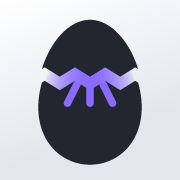
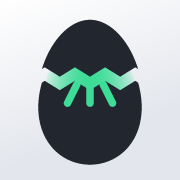
Drop violet from every surface, and give the mark a green crack
What was left after the primary button already went neutral: the mark's
crack light and halo, the "evolve" verdict, the AI bubble's star, and the
Appearance and Usage seals in Settings. The seals survived an earlier
sweep for a dumb reason worth recording — the sweep grepped lowercase hex
and that file writes uppercase.

The crack is now green, and green is not decoration here: it is the
colour of "invest", which is the app's one real yes. Measured on the
shell it sits on, it also beats what it replaces — 5.41:1 against the
light shell where the violet gave 4.72, and 8.57:1 against the dark shell
where it gave 4.06. The verdict blue measures 7.48:1 on the darkest dark
surface and 5.32:1 on the lightest light one, against the violet's 6.24
and 5.51.

Dragon and Psychic keep their violet: that is the canonical colour of the
species' type, which is content, not chrome.

The AI star loses its two-stop gradient with it. A gradient on a 26px
glyph is the kind of decoration that reads as generated rather than
designed, and the note above it admitted the star was "the only violet
thing that survives over the glass".

Icons regenerated from the same palette, both themes.

Changed region(s): [[0.25, 0.3611, 0.75, 0.6111]]

diff --git a/apps/web/scripts/make-icons.ts b/apps/web/scripts/make-icons.ts
@@ -100,7 +100,7 @@ const PALETAS: Record<Tema, Paleta> = {
     tile0: [0x33, 0x39, 0x4a], // #33394A
     tile1: [0x14, 0x17, 0x1e], // #14171E
     casca: [0xf4, 0xf6, 0xfa], // #F4F6FA, do handoff
-    luz: [0x6e, 0x4b, 0xff], // #6E4BFF
+    luz: [0x0f, 0x73, 0x50], // #0F7350 — measured 5.41:1 on the light shell (the violet gave 4.72)
     quina: [0xff, 0xff, 0xff],
     quinaAlfa: 0.22, // rgba(255,255,255,.22), do handoff
     quinaLado: -1,
@@ -109,7 +109,7 @@ const PALETAS: Record<Tema, Paleta> = {
     tile0: [0xff, 0xff, 0xff], // #FFFFFF
     tile1: [0xe3, 0xe6, 0xec], // #E3E6EC
     casca: [0x22, 0x26, 0x2f], // #22262F, a versao de fundo claro
-    luz: [0x8a, 0x6b, 0xff], // #8A6BFF
+    luz: [0x3d, 0xdc, 0x97], // #3DDC97 — measured 8.57:1 on the dark shell (the violet gave 4.06)
     quina: [0x8f, 0x96, 0xa6],
     quinaAlfa: 0.45,
     quinaLado: 1,
@@ -210,7 +210,7 @@ function roundedRectSdf(
 
 /**
  * A marca: um OVO CHOCANDO — a metade de cima levantada, borda de quebra em
- * zigue-zague e luz violeta escapando de dentro.
+ * zigue-zague e a luz da marca escapando de dentro.
  *
  * Opcao 8a do documento de exploracao, e a razao dela existir esta escrita la:
  * "A Poké Ball está fora — a forma (esfera com faixa equatorial e botão
@@ -546,3 +546,47 @@ for (const [size, forma, marca, name] of [
     console.log(`${arquivo.padEnd(30)} ${size}x${size}  ${(png.length / 1024).toFixed(1)} KB`);
   }
 }
+
+/*
+ * THE NATIVE APP GETS THE SAME MARK.
+ *
+ * `apps/mobile/assets/icon.png` was still the Expo template icon — the blue
+ * chevron with the construction guides drawn on it. It is what the home screen
+ * of the simulator showed, so the native app looked like a scaffold next to the
+ * installed PWA, which has carried the egg since the icon round.
+ *
+ * Same generator, same palette, on purpose: the home-screen icon and the mark
+ * inside the app have to be one drawing. `cheio` at scale 1 is the iOS rule
+ * from the table above — the squircle eats the corners and never the middle.
+ *
+ * It is written twice: the Expo asset (so `prebuild` keeps it) and the asset
+ * catalog the current `ios/` project actually reads. Writing only the first
+ * would change nothing until someone ran prebuild, and prebuild wipes Pods.
+ */
+const MOBILE = join(HERE, "..", "..", "mobile");
+const icone1024 = encodePng(1024, 1024, renderIcon(1024, "cheio", 1, "dark"));
+for (const destino of [
+  join(MOBILE, "assets", "icon.png"),
+  join(MOBILE, "ios", "TrainerKit", "Images.xcassets", "AppIcon.appiconset", "App-Icon-1024x1024@1x.png"),
+]) {
+  await writeFile(destino, icone1024);
+  console.log(`${destino.split("/").slice(-2).join("/").padEnd(30)} 1024x1024  ${(icone1024.length / 1024).toFixed(1)} KB`);
+}
+
+/*
+ * A ABERTURA usa o `tile`, e nao o `cheio`.
+ *
+ * O `cheio` e desenhado pra ser recortado pelo squircle do iOS: sozinho ele e
+ * um quadrado de canto reto. Na tela de abertura, com `resizeMode: contain`
+ * sobre fundo preto, isso vira um retangulo cinza-escuro com quina — parece
+ * imagem que nao carregou. O `tile` ja traz o canto arredondado no desenho e
+ * flutua no preto como o icone da tela de inicio.
+ */
+const abertura = encodePng(1024, 1024, renderIcon(1024, "tile", 1, "dark"));
+await writeFile(join(MOBILE, "assets", "splash-icon.png"), abertura);
+console.log(`assets/splash-icon.png         1024x1024  ${(abertura.length / 1024).toFixed(1)} KB`);
+
+/* O favicon do Expo web e o mesmo 48px do tile. */
+const favMobile = encodePng(48, 48, renderIcon(48, "tile", 1, "dark"));
+await writeFile(join(MOBILE, "assets", "favicon.png"), favMobile);
+console.log(`assets/favicon.png             48x48  ${(favMobile.length / 1024).toFixed(1)} KB`);

diff --git a/apps/web/src/ui/IconesAjustes.tsx b/apps/web/src/ui/IconesAjustes.tsx
@@ -11,12 +11,25 @@
  * ── Por que a cor é fixa por assunto, e não a cor da espécie ─────────────────
  *
  * Este é o único canto do app onde a cor NÃO segue a especie, e é de propósito.
- * A cor aqui é um índice: o violeta é sempre Aparência, o azul é sempre Idioma.
- * É assim que se acha uma linha em Ajustes sem ler — pela posição e pela cor. Se
- * a paleta mudasse com o bicho em destaque, a única coisa que os selos fazem de
- * útil desapareceria.
+ * A cor aqui é um índice: o cinza claro é sempre Aparência, o azul é sempre
+ * Idioma. É assim que se acha uma linha em Ajustes sem ler — pela posição e pela
+ * cor. Se a paleta mudasse com o bicho em destaque, a única coisa que os selos
+ * fazem de útil desapareceria.
  *
- * As dez cores vêm do handoff, sem retoque.
+ * ── APPEARANCE AND USAGE STOPPED BEING VIOLET ───────────────────────────────
+ *
+ * They were the handoff's #8A6BFF→#6E4BFF and #A78BFA→#7C3AED, and they were the
+ * last violet surface left in the app after the tokens, the mark and the AI star
+ * were done — "tirar o roxo de todo canto". They survived an earlier sweep for a
+ * dumb reason worth writing down: the sweep grepped lowercase hex and these are
+ * written uppercase.
+ *
+ * Appearance is now light slate, which is the one row whose subject IS light and
+ * dark, so a neutral seal says what the row does. Usage went to lime — the only
+ * free hue left that is not a neighbour of an existing seal (emerald is Images,
+ * orange is Voice, rose is Support).
+ *
+ * O resto das cores vem do handoff, sem retoque.
  */
 
 export type SeloAjustes =
@@ -37,15 +50,14 @@ export type SeloAjustes =
 /** Gradiente e desenho de cada assunto. O `d` é o miolo do SVG, em 24×24. */
 const SELOS: Record<SeloAjustes, { de: string; ate: string; svg: React.ReactNode }> = {
   aparencia: {
-    de: "#8A6BFF",
-    ate: "#6E4BFF",
+    de: "#CBD5E1",
+    ate: "#64748B",
     svg: <path d="M21 12.8A9 9 0 1 1 11.2 3 7 7 0 0 0 21 12.8z" />,
   },
   uso: {
-    // Fora do handoff (a tela dele não tinha "Como você usa"): mesma família de
-    // violeta da Aparência, porque as duas dizem "como o app se comporta".
-    de: "#A78BFA",
-    ate: "#7C3AED",
+    // Fora do handoff (a tela dele não tinha "Como você usa").
+    de: "#A3E635",
+    ate: "#4D7C0F",
     svg: (
       <>
         <path d="M4 7h16" />

diff --git a/apps/web/src/ui/AiBubble.tsx b/apps/web/src/ui/AiBubble.tsx
@@ -147,24 +147,25 @@ export function AiBubble({ contexto, sistema, titulo }: Props) {
           onClick={() => setAberta((v) => !v)}
         >
           {/*
-            A estrela em gradiente violeta do handoff §5.
+            Flat star, one colour, no gradient.
 
-            O ícone anterior era o `IconSpark` monocromático, herdado de quando
-            esta bolha era só um botão azul. O gradiente é o que a liga
-            visualmente ao resto da IA no app — e é a única coisa violeta que
-            sobrevive sobre o vidro, que assume a cor do que está atrás.
+            It used to be the handoff's violet gradient, and the note here said
+            it was "the only violet thing that survives over the glass". That is
+            exactly why it had to go: "tira o roxo de todo canto". Two stops on
+            a 26px glyph is also the kind of decoration that reads as generated
+            rather than designed.
+
+            `--tk-v-investir` and not `--tk-marca-luz`: the bubble is glass, so
+            the glyph sits on whatever is behind it, and this token has the
+            right polarity for that (bright green on dark, deep green on light).
+            `--tk-marca-luz` is the inverse — it is drawn on the egg shell,
+            which is light in the dark theme.
           */}
           <svg width="26" height="26" viewBox="0 0 24 24" aria-hidden="true">
             <path
               d="M12 3l1.9 4.9L19 9.8l-4.3 3 .6 5.2-3.3-2.5-3.3 2.5.6-5.2L5 9.8l5.1-1.9L12 3z"
-              fill="url(#tk-estrela)"
+              fill="var(--tk-v-investir)"
             />
-            <defs>
-              <linearGradient id="tk-estrela" x1="0" y1="0" x2="1" y2="1">
-                <stop offset="0" stopColor="#c4b5ff" />
-                <stop offset="1" stopColor="#6b4bff" />
-              </linearGradient>
-            </defs>
           </svg>
         </button>,
         document.body,

diff --git a/apps/web/src/styles/tokens.css b/apps/web/src/styles/tokens.css
@@ -130,8 +130,8 @@
   --tk-marca-tile0: #33394a;
   --tk-marca-tile1: #14171e;
   --tk-marca-casca: #f4f6fa;
-  --tk-marca-luz: #6e4bff;
-  --tk-marca-halo: #c4b5ff;
+  --tk-marca-luz: #0f7350;
+  --tk-marca-halo: #7de9b8;
   --tk-marca-borda: rgba(255, 255, 255, 0.14);
   --tk-marca-brilho: rgba(255, 255, 255, 0.22);
 
@@ -181,7 +181,7 @@
 
   /* Vereditos: palavra + cor + glifo, sempre. O glifo faz parte do token. */
   --tk-v-investir: #3ddc97;
-  --tk-v-evoluir: #9f8bff;
+  --tk-v-evoluir: #4db2ff;
   --tk-v-guardar: #ffc55c;
   --tk-v-transferir: #9aa6b8;
 
@@ -400,8 +400,8 @@
   --tk-marca-tile0: #ffffff;
   --tk-marca-tile1: #e3e6ec;
   --tk-marca-casca: #22262f;
-  --tk-marca-luz: #8a6bff;
-  --tk-marca-halo: #8a6bff;
+  --tk-marca-luz: #3ddc97;
+  --tk-marca-halo: #1f9e70;
   --tk-marca-borda: rgba(20, 24, 33, 0.1);
   --tk-marca-brilho: rgba(255, 255, 255, 0.9);
 
@@ -416,7 +416,7 @@
   --tk-ultra-fg-strong: #14161b;
 
   --tk-v-investir: #067a56;
-  --tk-v-evoluir: #5b3df5;
+  --tk-v-evoluir: #0b62c4;
   --tk-v-guardar: #8a5a00;
   --tk-v-transferir: #5b6472;
 
@@ -555,8 +555,8 @@
     --tk-marca-tile0: #ffffff;
     --tk-marca-tile1: #e3e6ec;
     --tk-marca-casca: #22262f;
-    --tk-marca-luz: #8a6bff;
-    --tk-marca-halo: #8a6bff;
+    --tk-marca-luz: #3ddc97;
+    --tk-marca-halo: #1f9e70;
     --tk-marca-borda: rgba(20, 24, 33, 0.1);
     --tk-marca-brilho: rgba(255, 255, 255, 0.9);
 
@@ -569,7 +569,7 @@
     --tk-ultra-fg-strong: #14161b;
 
     --tk-v-investir: #067a56;
-    --tk-v-evoluir: #5b3df5;
+    --tk-v-evoluir: #0b62c4;
     --tk-v-guardar: #8a5a00;
     --tk-v-transferir: #5b6472;
 
